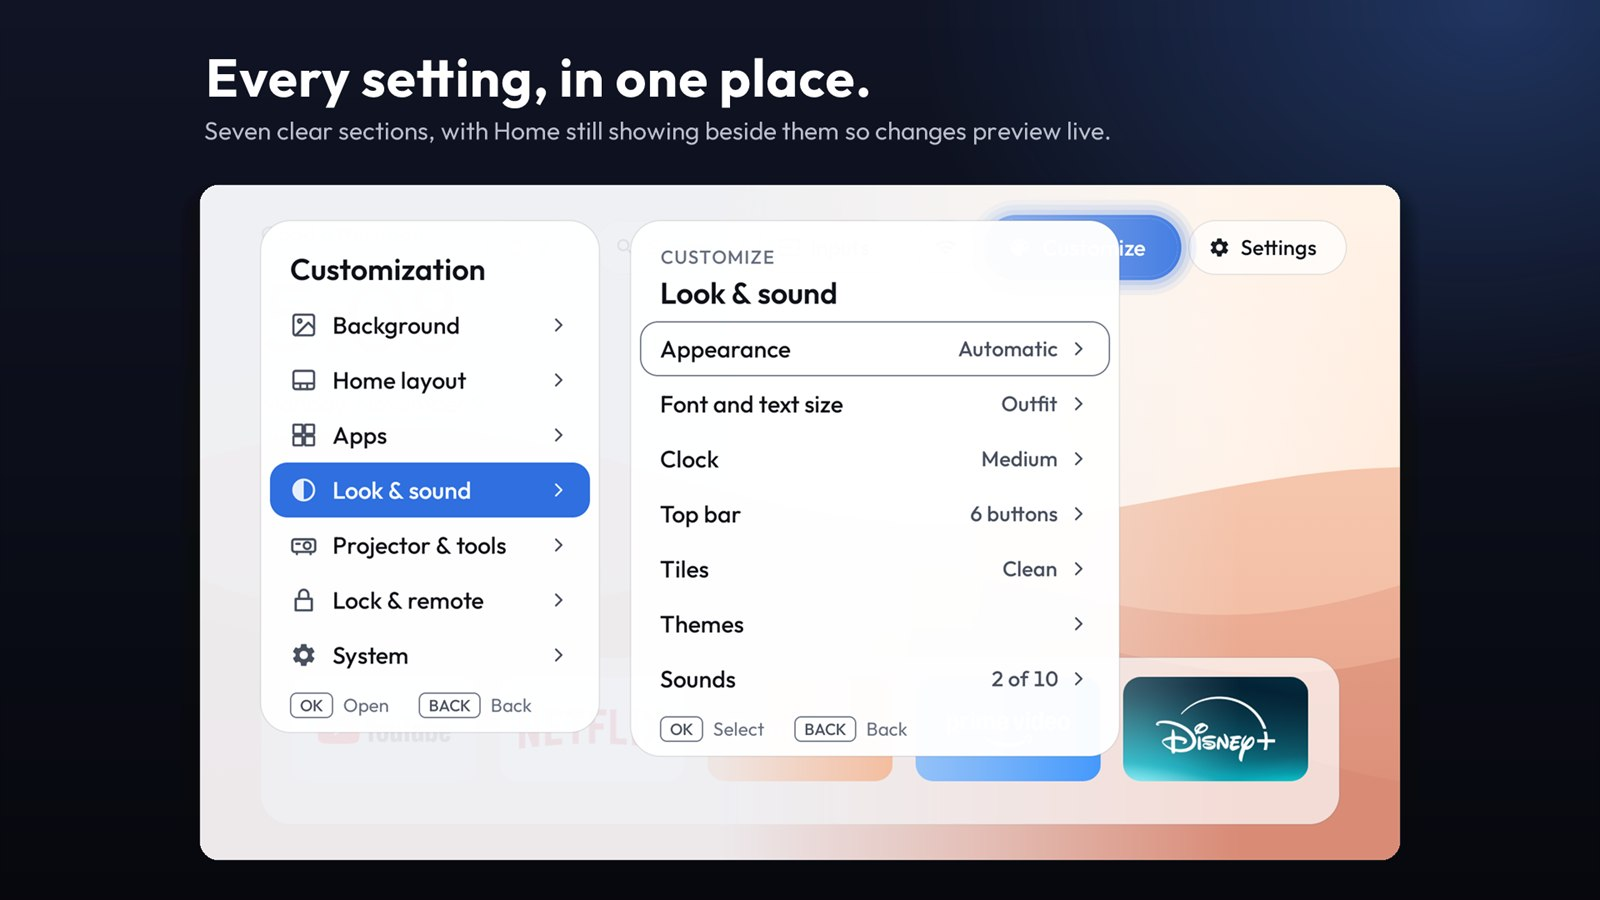
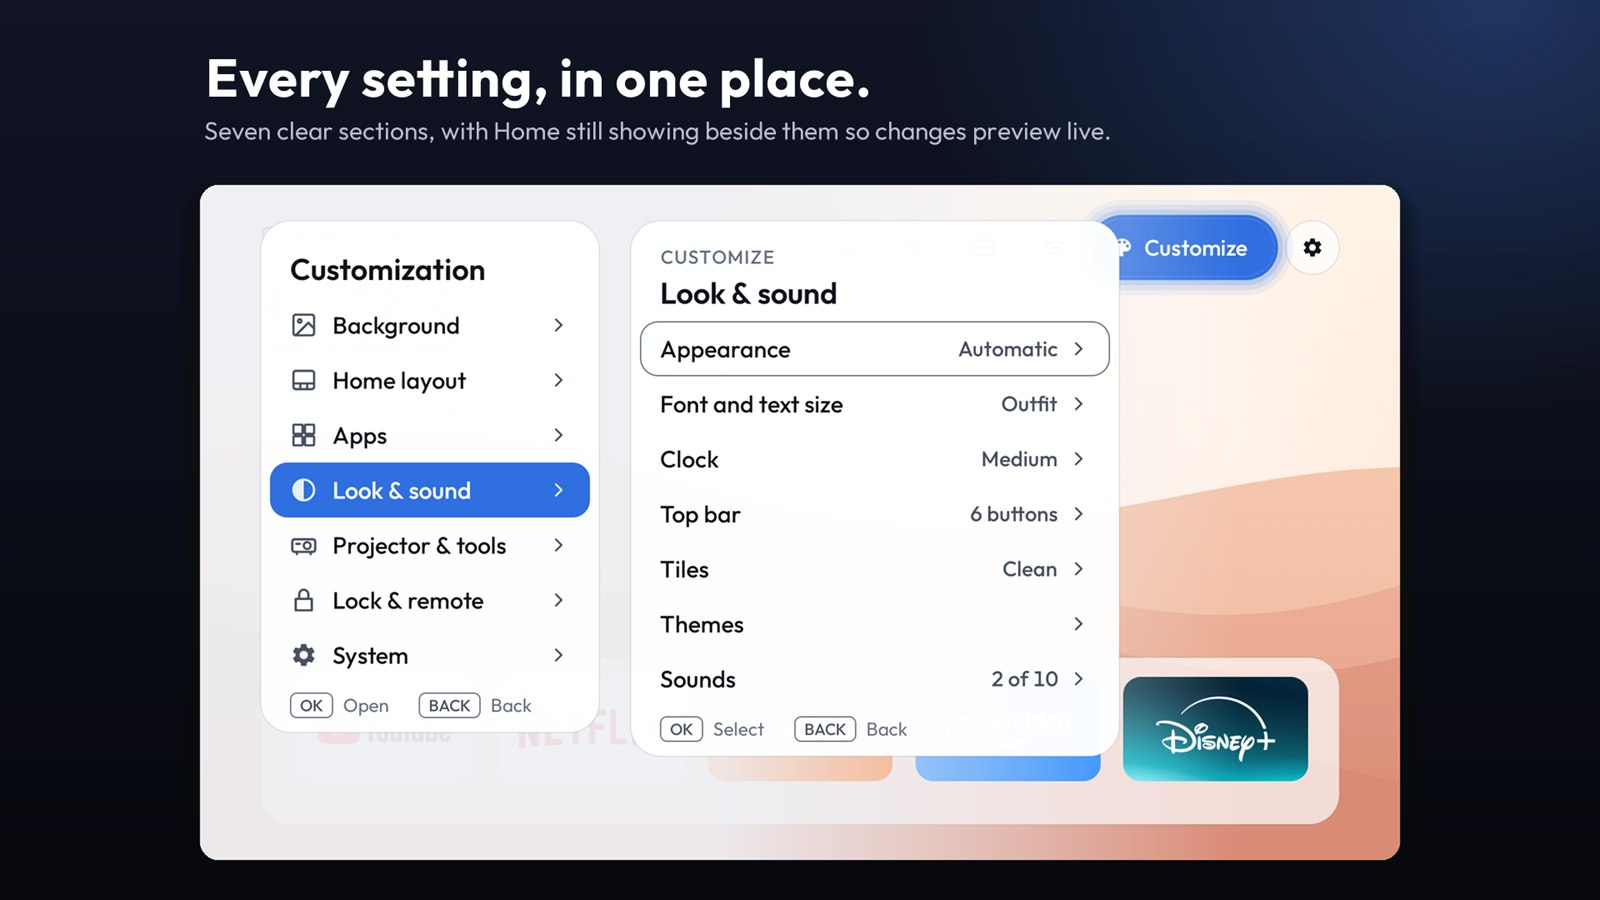
Top bar: circle buttons that open up when focused
The owner found the top bar crowded. Each button is now a circle with its
icon; the focused one widens (160 ms, ease-out) to its old look with the
label, and closes again when focus moves on. The label keeps its own
width while revealed, so it slides into view instead of being squeezed.
The focus ring keeps gliding and follows the button's edges as it opens
(HighlightView.retarget, driven by the buttons' layout changes). The
Wi-Fi name and notification count now show only on focus; "Signal only"
keeps Wi-Fi a circle.

Also: opening Customize from a remote shortcut lights the Customize
button. README's Customize and Customization images retaken with the new
buttons. Checked on the projector with screenshots.

Changed region(s): [[0.6875, 0.2178, 0.8438, 0.3422], [0.625, 0.2178, 0.6875, 0.2489]]

diff --git a/launcher/app/src/main/java/tv/leios/launcher/MainActivity.java b/launcher/app/src/main/java/tv/leios/launcher/MainActivity.java
@@ -293,6 +293,12 @@ public class MainActivity extends Activity {
                 ViewGroup.LayoutParams.MATCH_PARENT, ViewGroup.LayoutParams.MATCH_PARENT));
         pills = new View[] {findViewById(R.id.pillNotif), findViewById(R.id.pillSearch), findViewById(R.id.pillInputs),
                 findViewById(R.id.pillWifi), findViewById(R.id.pillCustomize), findViewById(R.id.pillSettings)};
+        // A button opening (or a neighbour making room) moves its edges: the focus ring follows.
+        for (View p : pills) {
+            p.addOnLayoutChangeListener((v, l, t, r, b, ol, ot, or, ob) -> {
+                if (l != ol || r != or) followPill(v);
+            });
+        }
         notifLabel = findViewById(R.id.notifLabel);
         wifiIcon = findViewById(R.id.wifiIcon);
         prefs = SafePrefs.focus(this);
@@ -458,9 +464,12 @@ public class MainActivity extends Activity {
     private void paintPills() {
         int lit = area == TOP || (area == MENU && menuReturnArea == TOP) ? topIndex : -1;
         if (lit == litPill) return;
+        boolean first = litPill == -2;
         litPill = lit;
         for (int p = 0; p < pills.length; p++) {
             boolean on = p == lit;
+            // Circles with just the icon; the one you're on opens to show its name.
+            shapePill(p, on, !first);
             pills[p].setBackground(Ui.rounded(pillHeight() / 2f, on ? theme.accentFill : theme.surfaceSoft,
                     theme.stroke, on ? 0 : tk.stroke));
             ViewGroup g = (ViewGroup) pills[p];
@@ -471,6 +480,77 @@ public class MainActivity extends Activity {
                 else if (c instanceof ImageView) ((ImageView) c).setImageTintList(ColorStateList.valueOf(ink));
             }
         }
+    }
+
+    // ---- top-bar buttons: circles that open up when focused ------------------------------------
+
+    private final android.animation.ValueAnimator[] pillAnims = new android.animation.ValueAnimator[6];
+
+    /** Space before the icon: centres it in a circle as tall as the button. */
+    private int pillPadStart() {
+        return (pillHeight() - tk.iconSm) / 2;
+    }
+
+    /** A button's width when open: icon, then its text (if it shows one), as it always looked. */
+    private int pillOpenWidth(View pill) {
+        ViewGroup g = (ViewGroup) pill;
+        int w = pillPadStart() + tk.iconSm, text = 0;
+        for (int i = 0; i < g.getChildCount(); i++) {
+            View c = g.getChildAt(i);
+            if (!(c instanceof TextView) || c.getVisibility() == View.GONE) continue;
+            TextView t = (TextView) c;
+            int natural = (int) Math.ceil(t.getPaint().measureText(t.getText().toString()));
+            if (t.getMaxWidth() > 0 && t.getMaxWidth() < Integer.MAX_VALUE) natural = Math.min(natural, t.getMaxWidth());
+            // The text keeps its own width while the button opens, so it's revealed, not squeezed.
+            ViewGroup.LayoutParams lp = t.getLayoutParams();
+            if (lp.width != natural) {
+                lp.width = natural;
+                t.setLayoutParams(lp);
+            }
+            text = natural;
+        }
+        return text == 0 ? pillHeight() : w + tk.space2 + text + tk.space5 - tk.space1;
+    }
+
+    /** {@code open}: shows the button's text; otherwise a circle with the icon. */
+    private void shapePill(int p, boolean open, boolean animate) {
+        View pill = pills[p];
+        int to = open ? pillOpenWidth(pill) : pillHeight();
+        pill.setPaddingRelative(pillPadStart(), 0, 0, 0);
+        ViewGroup g = (ViewGroup) pill;
+        for (int i = 0; i < g.getChildCount(); i++) {
+            View c = g.getChildAt(i);
+            if (c instanceof TextView) c.animate().alpha(open ? 1f : 0f).setDuration(open ? tk.focus : tk.fast).start();
+        }
+        ViewGroup.LayoutParams lp = pill.getLayoutParams();
+        if (pillAnims[p] != null) pillAnims[p].cancel();
+        int fromW = lp.width > 0 ? lp.width : pill.getWidth();
+        if (!animate || fromW <= 0 || fromW == to || !isResumedNow) {
+            lp.width = to;
+            pill.setLayoutParams(lp);
+            return;
+        }
+        android.animation.ValueAnimator a = android.animation.ValueAnimator.ofInt(fromW, to);
+        a.setDuration(tk.focus);
+        a.setInterpolator(Tokens.EASE_OUT);
+        a.addUpdateListener(v -> {
+            lp.width = (int) v.getAnimatedValue();
+            pill.setLayoutParams(lp);
+        });
+        pillAnims[p] = a;
+        a.start();
+    }
+
+    /** While a button opens or closes, the focus ring follows its edges (see HighlightView.retarget). */
+    private void followPill(View pill) {
+        if (pill != currentTarget()) return;
+        int base = area == MENU ? menuReturnArea : area;
+        if (base != TOP) return;
+        float s = tk.scalePill;
+        Rect r = rectOf(pill, true);
+        RectF rf = new RectF(r);
+        rf.inset(-r.width() * (s - 1f) / 2f, -r.height() * (s - 1f) / 2f);
+        highlight.retarget(rf, rf.height() / 2f);
     }
 
     /** Each mode keeps its own background, so automatic mode looks right day and night. */
@@ -584,6 +664,8 @@ public class MainActivity extends Activity {
                     dismissMenu();
                 }
                 area = TOP;
+                // The sheet belongs to the Customize button, so that's the one lit (not wherever focus was).
+                if (pills[PILL_CUSTOMIZE].getVisibility() == View.VISIBLE) topIndex = PILL_CUSTOMIZE;
                 requirePin(Lock.hasPin(this) && (Lock.guest(this) || customizeLocked()), "Customize",
                         () -> openCustomize(0));
             } else if ("next_bg".equals(open)) {
@@ -5576,9 +5658,8 @@ public class MainActivity extends Activity {
         pills[PILL_INPUTS].setVisibility(hasInputs && prefs.getBoolean("bar_inputs", true) ? View.VISIBLE : View.GONE);
         pills[PILL_SEARCH].setVisibility(prefs.getBoolean("bar_search", true) ? View.VISIBLE : View.GONE);
         pills[PILL_WIFI].setVisibility(wifi == 2 ? View.GONE : View.VISIBLE);
+        // "Signal only": the Wi-Fi button stays a circle even when focused (shapePill sees no text).
         wifiLabel.setVisibility(wifi == 1 ? View.GONE : View.VISIBLE);
-        // Icon only: even padding, so the pill is a neat circle-ish chip.
-        pills[PILL_WIFI].setPaddingRelative(tk.space4, 0, wifi == 1 ? tk.space4 : tk.space5, 0);
         // Guest mode hides both ways into settings; ▲ ▲ ▼ ▼ ◀ ▶ ◀ ▶ on Home still opens Customize.
         boolean guest = Lock.guest(this);
         pills[PILL_CUSTOMIZE].setVisibility(guest ? View.GONE : View.VISIBLE);

diff --git a/launcher/app/src/main/java/tv/leios/launcher/HighlightView.java b/launcher/app/src/main/java/tv/leios/launcher/HighlightView.java
@@ -93,6 +93,24 @@ public class HighlightView extends View {
         anim.start();
     }
 
+    /**
+     * The element it's heading for changed size or place mid-way (a top-bar button opening up):
+     * the ring keeps gliding, now towards the new rectangle, or follows at once if it had arrived.
+     */
+    void retarget(RectF target, float targetRadius) {
+        if (!shown) return;
+        if (anim != null && anim.isRunning()) {
+            to.set(target);
+            toRadius = targetRadius;
+            fit(from, to);
+            return;
+        }
+        cur.set(target);
+        radius = targetRadius;
+        fit(cur, cur);
+        invalidate();
+    }
+
     void hide() {
         if (anim != null) anim.cancel();
         shown = false;

diff --git a/CHANGELOG.md b/CHANGELOG.md
@@ -17,6 +17,8 @@
 - **Customize** on Home is now a quick sheet: Background, Appearance, Dock & arrange apps, and **All customization**.
 - **Look** is now **Look & sound**, and **Backup & reset** is now **System**. All saved settings keep working, and older backups and themes still restore.
 - **Top bar** has a **Search button** toggle. Themes carry it.
+- **Top-bar buttons are circles** with just their icon; the one you're on opens up to show its name, as before, and the focus ring follows it. The Wi-Fi name and the notification count show only while their button is focused, so the bar is calmer.
+- Opening Customize with a remote shortcut lights the Customize button, not whichever button was focused before.
 
 ### Fixed
 - Interface sounds were silent on TVs that mute Android's System sound channel at start, such as the JMGO N3 4K. Sounds now play at the TV's media volume when system sounds are muted. They never take audio focus, so other apps are never paused or turned down.
